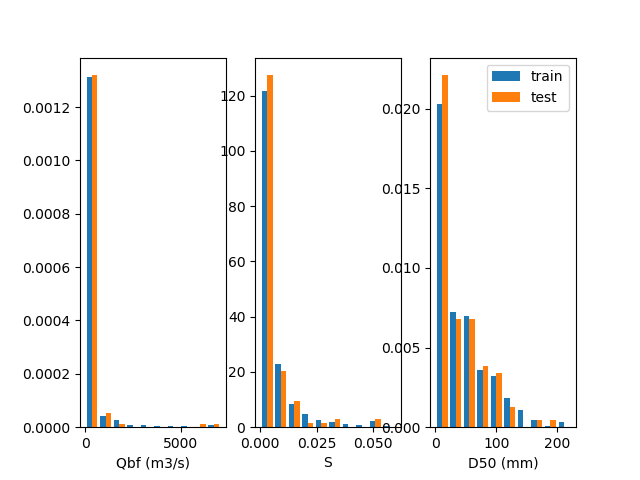
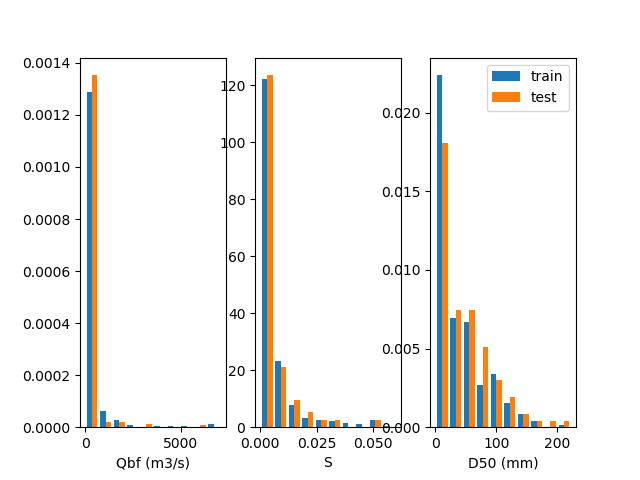
started messing with lots of params

diff --git a/channel_geom_nn.py b/channel_geom_nn.py
@@ -17,20 +17,41 @@ print('Data summary:\n')
 print(df.describe(), '\n\n') # Overview of dataset
 
 # subset for train and test and rescale all values
-df_train, df_test = train_test_split(df, test_size=0.20)
+df_train, df_test = train_test_split(df, test_size=0.40)
 
 scaler = MinMaxScaler() # For normalizing dataset
 
 # we want to predict the H and B given Qbf, S, D50
 # y is output and x is features
 
-X_train = scaler.fit_transform(df_train.drop(['Bbf.m', 'Hbf.m'], axis=1).values)
-y_train = scaler.fit_transform(df_train[['Bbf.m', 'Hbf.m']].values)
+# min max normalization
+# X_train = scaler.fit_transform(df_train.drop(['Bbf.m', 'Hbf.m'], axis=1).values)
+# y_train = scaler.fit_transform(df_train[['Bbf.m', 'Hbf.m']].values)
+# X_test = scaler.fit_transform(df_test.drop(['Bbf.m', 'Hbf.m'], axis=1).values)
+# y_test = scaler.fit_transform(df_test[['Bbf.m', 'Hbf.m']].values)
+# logged = False
 
-X_test = scaler.fit_transform(df_test.drop(['Bbf.m', 'Hbf.m'], axis=1).values)
-y_test = scaler.fit_transform(df_test[['Bbf.m', 'Hbf.m']].values)
+# min max log(x) normalization
+X_train = scaler.fit_transform(np.log10(df_train.drop(['Bbf.m', 'Hbf.m'], axis=1).values))
+y_train = scaler.fit_transform(np.log10(df_train[['Bbf.m', 'Hbf.m']].values))
+X_test = scaler.fit_transform(np.log10(df_test.drop(['Bbf.m', 'Hbf.m'], axis=1).values))
+y_test = scaler.fit_transform(np.log10(df_test[['Bbf.m', 'Hbf.m']].values))
+logged = True
 
-batch_size = 5
+# min max log(x) normalization (whole dataset)
+# X_train = scaler.fit_transform(np.log10(df.drop(['Bbf.m', 'Hbf.m'], axis=1).values))
+# y_train = scaler.fit_transform(np.log10(df[['Bbf.m', 'Hbf.m']].values))
+# X_test = scaler.fit_transform(np.log10(df.drop(['Bbf.m', 'Hbf.m'], axis=1).values))
+# y_test = scaler.fit_transform(np.log10(df[['Bbf.m', 'Hbf.m']].values))
+# logged = True
+
+# no normalization (be sure to turn off below for plotting)
+# X_train = (df_train.drop(['Bbf.m', 'Hbf.m'], axis=1).values)
+# y_train = (df_train[['Bbf.m', 'Hbf.m']].values)
+# X_test = (df_test.drop(['Bbf.m', 'Hbf.m'], axis=1).values)
+# y_test = (df_test[['Bbf.m', 'Hbf.m']].values)
+
+batch_size = 1
 ds_train = tf.data.Dataset.from_tensor_slices((X_train, y_train)).repeat().batch(batch_size)
 it_train = ds_train.make_one_shot_iterator()
 xs, ys = it_train.get_next()
@@ -45,12 +66,21 @@ def denormalize(df, norm_data):
     this function will give original scale of values.
     """
 
-    df = df[['Bbf.m', 'Hbf.m']].values
+    if logged:
+        df = np.log10(df[['Bbf.m', 'Hbf.m']].values)
+    else:
+        df = df[['Bbf.m', 'Hbf.m']].values
+    
     norm_data = norm_data
     scl = MinMaxScaler()
     a = scl.fit_transform(df)
     new = scl.inverse_transform(norm_data)
-    return new
+    
+    if logged:
+        expt = np.exp(new)
+        return expt
+    else:
+        return new
 
 
 def neural_net_model(X_data, input_dim):
@@ -59,7 +89,7 @@ def neural_net_model(X_data, input_dim):
     Weights and biases are abberviated as W_1,W_2 and b_1, b_2 
     These are variables with will be updated during training.
     """
-    n_nodes = 4
+    n_nodes = 2
 
     # print('X_data: ', X_data)
 
@@ -67,10 +97,9 @@ def neural_net_model(X_data, input_dim):
     W_1 = tf.Variable(tf.random_uniform([input_dim, n_nodes], dtype='float64'))
     b_1 = tf.Variable(tf.zeros([n_nodes], dtype = 'float64'))
     layer_1 = tf.add(tf.matmul(X_data, W_1), b_1)
-    # layer_1 = tf.nn.relu(layer_1)
+    layer_1 = tf.nn.relu(layer_1)
     # layer_1 = tf.nn.softmax(layer_1)
-    layer_1 = tf.nn.leaky_relu(layer_1, alpha = 1)
-
+    # layer_1 = tf.nn.leaky_relu(layer_1, alpha = 0.1)
 
     # layer 2 multiplying and adding bias then activation function    
     # W_2 = tf.Variable(tf.random_uniform([n_nodes, n_nodes], dtype='float64'))
@@ -100,8 +129,8 @@ loss = tf.losses.mean_squared_error(output, ys)
 
 # Gradinent Descent optimiztion just discussed above for updating weights and biases
 learning_rate = 0.001
-# train = tf.train.GradientDescentOptimizer(learning_rate).minimize(loss)
-train = tf.train.AdamOptimizer(learning_rate).minimize(loss)
+train = tf.train.GradientDescentOptimizer(learning_rate).minimize(loss)
+# train = tf.train.AdamOptimizer(learning_rate).minimize(loss)
 
 # some other initializations
 # correct_pred = tf.argmax(output, 1)
@@ -121,37 +150,45 @@ with tf.Session() as sess:
 
     # batcher = tf.train.batch(, batch_size=10, allow_smaller_final_batch = True)
 
-    for i in range(3000):
-        # for j in range(X_train.shape[0]):
+    it = 0
+    n_epoch = 10
+    n_batch_per_epoch = int( np.floor(X_train.shape[0] / batch_size) )
+    for i in range(n_epoch):
+        for j in range(n_batch_per_epoch):
             # Run loss and train with each sample (1 sample per batch)
             # sess.run([loss, train], feed_dict = {xs:X_train[j,:].reshape(1, X_train.shape[1]), 
             #                                      ys:y_train[j,:].reshape(1, y_train.shape[1])})
 
             # Run loss and train with each sample (10 samples per batch)
             # batch_x, batch_y = batcher.next_batch(batch_size)
-        sess.run([loss, train])
+            sess.run([loss, train])
 
-        # keep track of the loss
-        c_train.append(sess.run(loss, feed_dict = {xs:X_train, ys:y_train}))
-        c_test.append(sess.run(loss, feed_dict = {xs:X_test, ys:y_test}))
+            # keep track of the loss
+            c_train.append(sess.run(loss, feed_dict = {xs:X_train, ys:y_train}))
+            c_test.append(sess.run(loss, feed_dict = {xs:X_test, ys:y_test}))
+            it += 1
         
-        print('Epoch:', i, ', train loss:', c_train[i], ', test loss:', c_test[i])
+        print('Epoch:', i, ', train loss:', c_train[i*n_batch_per_epoch], ', test loss:', c_test[i*n_batch_per_epoch])
     
     # if input('Save model ? [Y/N]') == 'Y':
     #     saver.save(sess,'channel_geom_nn.ckpt')
     #     print('Model Saved')
 
     # finished training
-    print('Training complete.')
+    print('\nTraining complete.')
+    print('Total iterations: ', it)
+    print('test loss :', sess.run(loss, feed_dict={xs:X_test, ys:y_test}), '\n')
     writer.close()
 
     # predict output of test data after training
-    pred = sess.run(output, feed_dict={xs:X_test})
+    pred_test = sess.run(output, feed_dict={xs:X_test})
+    pred_train = sess.run(output, feed_dict={xs:X_train})
     
     # denormalize data  
-    print('test loss :', sess.run(loss, feed_dict={xs:X_test, ys:y_test}))
     y_test = denormalize(df_test, y_test)
-    pred = denormalize(df_test, pred)
+    pred_test = denormalize(df_test, pred_test)
+    y_train = denormalize(df_train, y_train)
+    pred_train = denormalize(df_train, pred_train)
 
     fig1, axes1 = plt.subplots(nrows=1, ncols=3)
     axes1[0].hist([df_train['Qbf.m3s'], df_test['Qbf.m3s']], histtype = 'bar', density = True)
@@ -164,35 +201,37 @@ with tf.Session() as sess:
     fig1.savefig('figures/split.png')
 
     fig2, ax2 = plt.subplots(nrows=1, ncols=2)
-    ax2[0].plot(y_test[:,1], pred[:,1], 'o')
-    ax2[0].plot([df['Hbf.m'].min(), df['Hbf.m'].max()], [df['Hbf.m'].min(), df['Hbf.m'].max()], 'k-', lw=2)
+    ax2[0].plot(df_train['Hbf.m'], pred_train[:,1], 'o', alpha=0.2)
+    ax2[0].plot(df_test['Hbf.m'], pred_test[:,1], 'o', alpha=0.2)
+    ax2[0].plot([df['Hbf.m'].min()/10, df['Hbf.m'].max()*10], [df['Hbf.m'].min()/10, df['Hbf.m'].max()*10], 'k-', lw=2)
     ax2[0].axis('square')
     ax2[0].set_title('depth H, (m)')
     ax2[0].set_yscale('log')
     ax2[0].set_xscale('log')
     ax2[0].set_xlabel('actual')
     ax2[0].set_ylabel('pred')
-    ax2[0].set_xlim([df['Hbf.m'].min(), df['Hbf.m'].max()])
-    ax2[0].set_ylim([df['Hbf.m'].min(), df['Hbf.m'].max()])
-    ax2[1].plot(y_test[:,0], pred[:,0], 'o')
-    ax2[1].plot([df['Bbf.m'].min(), df['Bbf.m'].max()], [df['Bbf.m'].min(), df['Bbf.m'].max()], 'k-', lw=2)
+    ax2[0].set_xlim([df['Hbf.m'].min()/10, df['Hbf.m'].max()*10])
+    ax2[0].set_ylim([df['Hbf.m'].min()/10, df['Hbf.m'].max()*10])
+    ax2[1].plot(df_train['Bbf.m'], pred_train[:,0], 'o', alpha=0.2)
+    ax2[1].plot(df_test['Bbf.m'], pred_test[:,0], 'o', alpha=0.2)
+    ax2[1].plot([df['Bbf.m'].min()/10, df['Bbf.m'].max()*10], [df['Bbf.m'].min()/10, df['Bbf.m'].max()*10], 'k-', lw=2)
     ax2[1].axis('square')
     ax2[1].set_title('width B, (m)')
     ax2[1].set_yscale('log')
     ax2[1].set_xscale('log')
     ax2[1].set_xlabel('actual')
     ax2[1].set_ylabel('pred')
-    ax2[1].set_xlim([df['Bbf.m'].min(), df['Bbf.m'].max()])
-    ax2[1].set_ylim([df['Bbf.m'].min(), df['Bbf.m'].max()])
+    ax2[1].set_xlim([df['Bbf.m'].min()/10, df['Bbf.m'].max()*10])
+    ax2[1].set_ylim([df['Bbf.m'].min()/10, df['Bbf.m'].max()*10])
     fig2.savefig('figures/compare.png')
 
     fig3, ax3 = plt.subplots()
-    ax3.plot(np.arange(len(c_train)), np.array(c_train))
-    ax3.plot(np.arange(len(c_test)), np.array(c_test))
+    ax3.plot(np.arange(len(c_train)) / n_batch_per_epoch, np.array(c_train))
+    ax3.plot(np.arange(len(c_test)) / n_batch_per_epoch, np.array(c_test))
     ax3.set_xlabel('epoch')
     ax3.set_ylabel('loss')
     plt.legend(['train', 'test'], loc = 'best')
     fig3.savefig('figures/train.png')
 
-
+    # print(W_O.read_value().eval())
     
